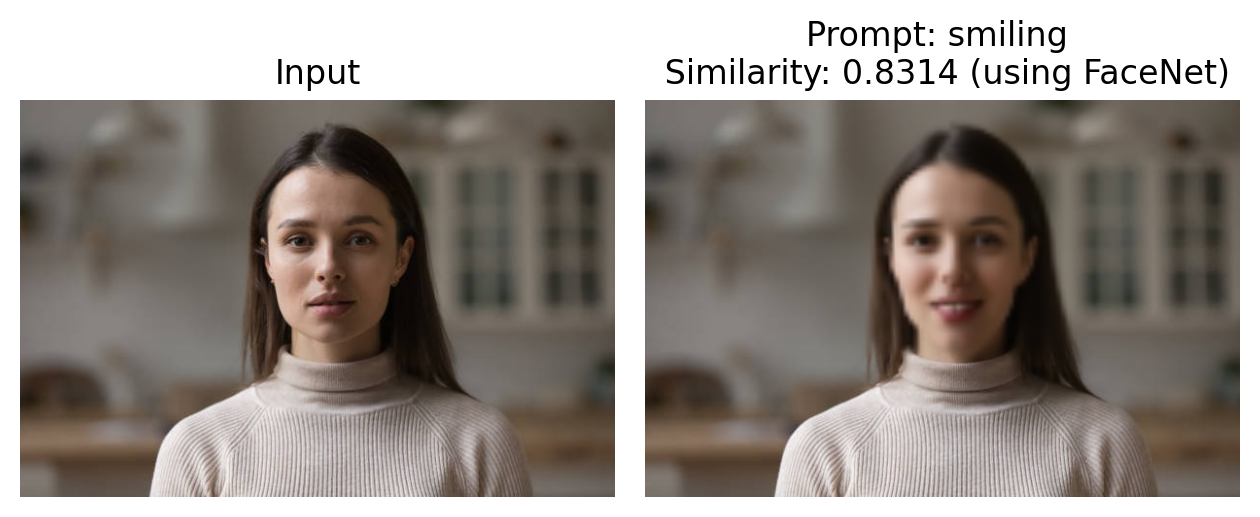
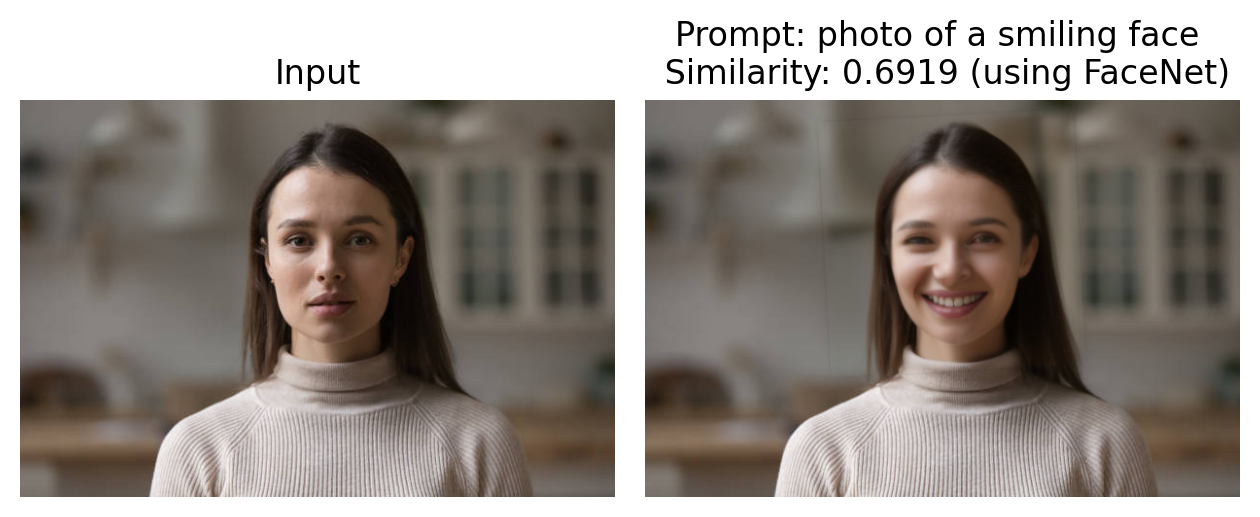
Add dpo model and losses

diff --git a/models/dpo_latent_diffusion.py b/models/dpo_latent_diffusion.py
@@ -1,0 +1,86 @@
+import copy
+from typing import List, Optional
+
+import torch
+from loguru import logger
+from peft import LoraConfig, get_peft_model
+
+from models.latent_diffusion import LatentDiffusionModel
+
+
+class DPOLatentDiffusionModel(LatentDiffusionModel):
+    def __init__(
+        self,
+        lora_rank: int = 8,
+        lora_alpha: int = 16,
+        lora_dropout=0.05,
+        *args,
+        **kwargs
+    ):
+        super().__init__(*args, **kwargs)
+
+        if (
+            not hasattr(self.model.unet, "use_attention")
+            or not self.model.unet.use_attention
+        ):
+            logger.warning("DPO training works best with attention blocks enabled.")
+
+        # setup Reference Model
+        self.ref_model = copy.deepcopy(self.model)
+        self.ref_model.eval().requires_grad_(False)
+
+        # inject LoRA into the Policy Model
+        lora_config = LoraConfig(
+            r=lora_rank,
+            lora_alpha=lora_alpha,
+            target_modules=["in_proj_weight", "out_proj"],
+            lora_dropout=lora_dropout,
+            bias="none",
+        )
+
+        # Wrap the internal DiffusionModel with LoRA
+        # This automatically freezes self.model's original parameters
+        self.model = get_peft_model(self.model, lora_config)
+
+        # Log trainable parameters to verify LoRA is working
+        self.model.print_trainable_parameters()
+
+    def merge_lora_weights(self):
+        """
+        Permanently merges the LoRA weights into the base model weights.
+        Useful for deployment or final evaluation.
+        """
+        logger.info("Merging LoRA weights into the base UNet...")
+        self.model = self.model.merge_and_unload()
+        # After merging, self.model becomes a standard DiffusionModel again
+
+    def forward(self, x: torch.Tensor, conditioning: Optional[List[str]] = None):
+        batch_size = x.shape[0]
+        device = x.device
+
+        # 1encode once to save compute (Using Mode for DPO stability)
+        with torch.no_grad():
+            x0 = x * 2.0 - 1.0 if self.renormalise else x
+            latents = self.encode(x0, use_sample=False)
+
+        # setup Interleaved pairs
+        half_bs = batch_size // 2
+        t_half = torch.randint(0, self.timesteps, (half_bs,), device=device)
+        noise_half = torch.randn_like(latents[:half_bs])
+
+        # Interleave so [W1, L1, W2, L2...]
+        t = torch.repeat_interleave(t_half, 2)
+        noise = torch.repeat_interleave(noise_half, 2, dim=0)
+
+        # policy Pass (Trainable LoRA weights)
+        pol_pred, target_noise = self.model(
+            latents, time_steps=t, noise=noise, conditioning=conditioning
+        )
+
+        # reference Pass (Original frozen weights)
+        with torch.no_grad():
+            ref_pred, _ = self.ref_model(
+                latents, time_steps=t, noise=noise, conditioning=conditioning
+            )
+
+        return (pol_pred, ref_pred, target_noise)

diff --git a/edit.py b/edit.py
@@ -129,6 +129,7 @@ def edit_smile(
     dec_pairs = full_dec[-num_steps:]
     edit_cond = [prompt] if model.has_conditional_generation else None
     cfg_sched = linear_cfg_ramp(cfg_start=1.5, cfg_end=model.sample_condition_weight)
+    print(model.sample_condition_weight)
 
     # identity guidance function if scale > 0.
     guidance_fn = None
@@ -345,13 +346,29 @@ if __name__ == "__main__":
     )
     parser.add_argument("--image_size", type=int, default=64, help="Model image size")
     parser.add_argument("--prompt", type=str, default="smiling", help="Editing prompt")
-    parser.add_argument("--T_test", type=int, default=50)
-    parser.add_argument("--step_percent", type=float, default=0.4)
+    parser.add_argument(
+        "--T_test",
+        type=int,
+        default=50,
+        help="DDIM steps. Larger values give better fidelity but takes more time.",
+    )
+    parser.add_argument(
+        "--step_percent",
+        type=float,
+        default=0.4,
+        help="Noise level to invert back to. Larger values gives structural/global changes.",
+    )
     parser.add_argument(
         "--id_scale",
         type=float,
         default=0.0,
         help="Identity guidance scale (e.g. 50.0)",
+    )
+    parser.add_argument(
+        "--sample_condition_weight",
+        type=float,
+        default=7.5,
+        help="Conditioning weight for sampling",
     )
     parser.add_argument(
         "--temp_scale",
@@ -373,6 +390,7 @@ if __name__ == "__main__":
         cfg = yaml.safe_load(f)
 
     # Setup model
+    cfg["model"]["params"]["sample_condition_weight"] = args.sample_condition_weight
     model, _ = get_model(
         cfg["model"],
         None,
@@ -428,10 +446,15 @@ if __name__ == "__main__":
 
         plt.tight_layout()
         plt.savefig(
-            f"outputs_smiling/comparison_{filename}.png", dpi=200, bbox_inches="tight"
+            f"outputs_smiling/comparison_{filename}_id_{args.id_scale}_step_{args.T_test}_perc_{args.step_percent}_weight_{args.sample_condition_weight}.png",
+            dpi=200,
+            bbox_inches="tight",
         )  # saves the whole figure
-        plt.show()
-        cv2.imwrite(f"outputs_smiling/{filename}_edit_{args.id_scale}.jpg", out)
+        # plt.show()
+        cv2.imwrite(
+            f"outputs_smiling/{filename}_edit_id_{args.id_scale}_step_{args.T_test}_perc_{args.step_percent}_weight_{args.sample_condition_weight}.jpg",
+            out,
+        )
 
     elif args.mode == "video":
         make_progressive_video(

diff --git a/losses/interleaved_dpo_loss.py b/losses/interleaved_dpo_loss.py
@@ -1,0 +1,48 @@
+from typing import Dict, Optional, Tuple
+
+import torch
+import torch.nn as nn
+import torch.nn.functional as F
+
+import helpers.custom_types as custom_types
+
+
+class InterleavedDPOLoss(nn.Module):
+    def __init__(self, beta: float = 0.1):
+        super().__init__()
+        self.beta = beta
+
+    def forward(
+        self, outputs: Tuple[torch.Tensor, torch.Tensor, torch.Tensor], *args, **kwargs
+    ):
+        """
+        Computes the DPO Loss assuming data is interleaved as [W1, L1, W2, L2, ...].
+        Args:
+            outputs (Tuple[torch.Tensor, torch.Tensor, torch.Tensor]): A tuple containing:
+                - pol_pred (torch.Tensor): The policy model predictions.
+                - ref_pred (torch.Tensor): The reference model predictions.
+                - target_noise (torch.Tensor): The ground truth noisy targets.
+        Returns:
+            torch.Tensor: The computed loss value.
+        """
+        assert (
+            len(outputs) == 3 and pol_pred.shape == ref_pred.shape == target_noise.shape
+        ), "Outputs must contain policy predictions, reference predictions, and target noise"
+
+        pol_pred, ref_pred, target_noise = outputs
+
+        # calculate Per-Sample MSE [B_total]
+        # B_total is 2 * batch_size_pairs
+        pol_err = F.mse_loss(pol_pred, target_noise, reduction="none").mean(
+            dim=[1, 2, 3]
+        )
+        ref_err = F.mse_loss(ref_pred, target_noise, reduction="none").mean(
+            dim=[1, 2, 3]
+        )
+
+        reward = ref_err - pol_err
+        # Assumes Interleaving: [W1, L1, W2, L2, ...]
+        logits = reward[0::2] - reward[1::2]
+        loss = -F.logsigmoid(self.beta * logits).mean()
+
+        return loss

diff --git a/models/latent_diffusion.py b/models/latent_diffusion.py
@@ -92,9 +92,9 @@ class LatentDiffusionModel(BaseModel):
 
     def decode(self, z: torch.Tensor) -> torch.Tensor:
         """Latents (B, 4, h, w) -> Pixels (B, 3, H, W)"""
-        with torch.no_grad():
-            z = z / self.scaling_factor
-            images = self.vae.decode(z).sample
+        # with torch.no_grad():
+        z = z / self.scaling_factor
+        images = self.vae.decode(z).sample
         return images
 
     def forward(

diff --git a/helpers/factory.py b/helpers/factory.py
@@ -120,6 +120,12 @@ def get_model(
             if build_ema
             else None
         )
+    elif name == "dpo_latent_diffusion":
+        return models.DPOLatentDiffusionModel(**params), (
+            models.EMAModel(models.DPOLatentDiffusionModel(**params), decay=ema_decay)
+            if build_ema
+            else None
+        )
     else:
         raise ValueError(f"Unknown model type: {name}")
 

diff --git a/models/__init__.py b/models/__init__.py
@@ -1,4 +1,5 @@
 from models.diffusion import DiffusionModel
+from models.dpo_latent_diffusion import DPOLatentDiffusionModel
 from models.ema import EMAModel
 from models.flow import FlowModel
 from models.gan import GAN

diff --git a/README.md b/README.md
@@ -18,11 +18,12 @@ As an example of its usage, we demonstrate image-to-video generation for facial 
 - [x] Add support for flow matching
 - [ ] Add support for GANs
 - [x] Add support for CFG in diffusion/flow
-- [x] Add support for CelebA dataset
+- [x] Add support for latent diffusion model
 - [x] Add DiT blocks
-- [x] Add latent diffusion model
-- [ ] Add multi-gpu training support
+- [x] Add support for DPO training
 - [x] Add some results
+- [ ] Integrate NVIDIA's [FastGen](https://github.com/NVlabs/FastGen) to support diffusion distillation
+- [ ] Add multi-gpu training support
 - [ ] Create a Gradio app for editing smile
 
 ## Getting Started
@@ -85,7 +86,7 @@ python smile.py --input <path_to_serious_face_image>
 (see the avilable parameters in smile.py to experiment with)
 
 ### 7. Results
-#### Results for diffusion model trained on CelebA datasets (64x64).
+#### Results for diffusion model trained on CelebA datasets.
 You can donwload this model from [here](https://drive.google.com/file/d/1Pb9B6iuZvVoaCEp4_dETjzSAUHu9yRqP/view?usp=sharing)
 
 ![Results1](assets/generated_samples.png)
@@ -100,26 +101,30 @@ You can donwload this model from [here](https://drive.google.com/file/d/1Pb9B6iu
 
 
 #### Results for converting single image to a video of progressively smiling preson using temporal guidance
-|  |  | Unnatural progression|
-|---|---|---|
-| <img src="assets/serious_face_progression_inf.gif" width="250"> | <img src="assets/serious_face_2_progression_inf.gif" width="250"> | <img src="assets/serious_face_3_progression_inf.gif" width="250"> |
-
+| w/o DPO | DPO |
+| :-----: | :--: |
+| <img src="assets/serious_face_progression_inf.gif" width="250"> | <img src="assets/serious_face_progression_inf_dpo.gif" width="250"> |
+| <img src="assets/serious_face_3_progression_inf.gif" width="250"> | <img src="assets/serious_face_3_progression_inf_dpo.gif" width="250"> |
+| <img src="assets/serious_face_2_progression_inf.gif" width="250"> | <img src="assets/serious_face_2_progression_inf_dpo.gif" width="250"> |
 ### Note: 
 - We use invert then edit here. Could also be extended to SDEdit which adds randomness.
-- Bluriness is because the model was trained on a lower resolution. 
+- We use LDM with DiT blocks in bottleneck for better symmetry.
+- For DPO training we use facenet-pytroch for face similarity and [off-the-shelf](https://huggingface.co/abhilash88/face-emotion-detection) model for smile detection.
+- Pair of images are generated with different parameters and ranked using the two models.
 
 
 ## Repository Structure
 
 - [`train.py`](train.py): Script to train generative models.
 - [`eval.py`](eval.py): Script to evaluate trained models.
+- [`edit.py`](edit.py): Script to edit an image using pre-trained diffusion model.
 - [`configs/`](configs/): YAML configuration files for experiments.
 - [`models/`](models/): Model architectures.
 - [`losses/`](losses/): Loss functions for training.
 - [`metrics/`](metrics/): Evaluation metrics.
 - [`loaders/`](loaders/): Dataset loaders.
 - [`helpers/`](helpers/): Factory functions and classes.
-- [`edit_images/`](edit_images/): Use diffusion model with guidance (CFG and classifier based) to edit face images
+- [`edit_images/`](edit_images/): Use diffusion model with guidance (CFG and classifier based) to edit images.
 
 ## Contributing
 
